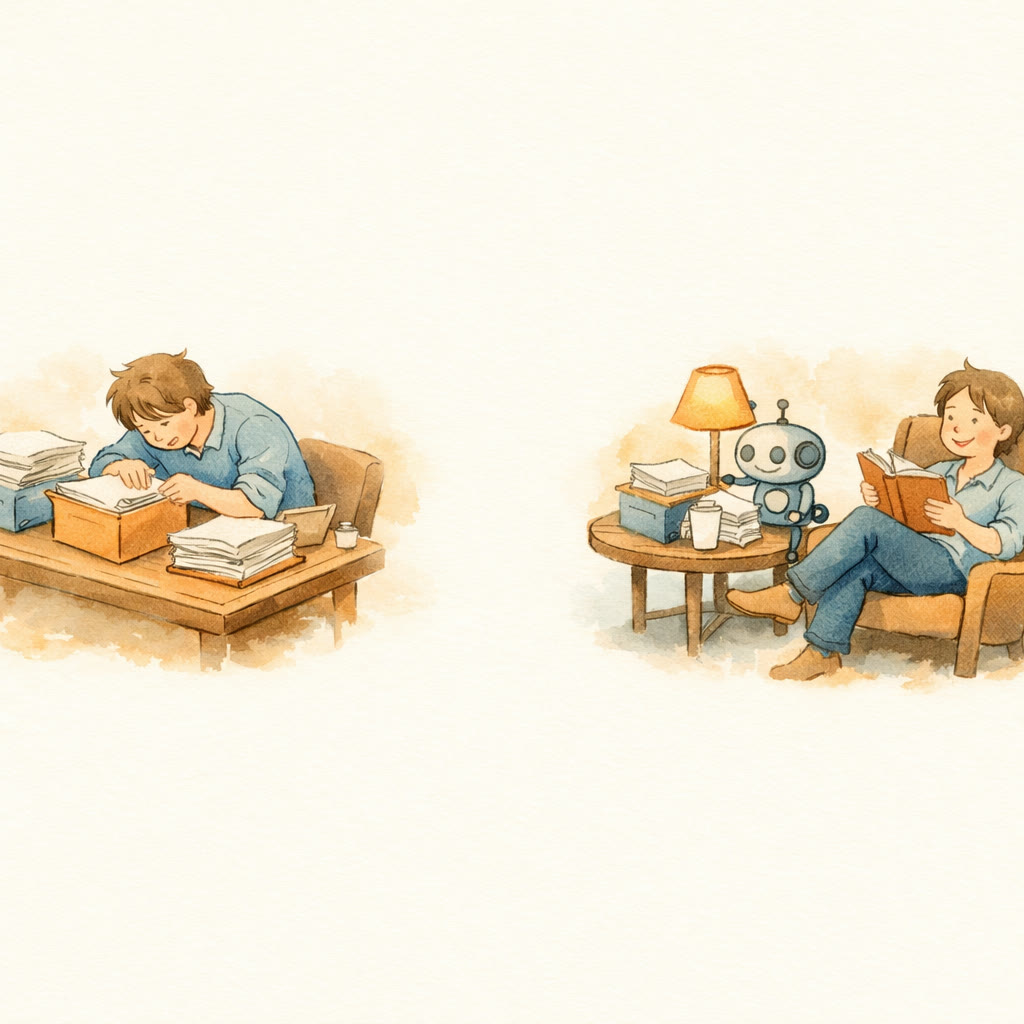
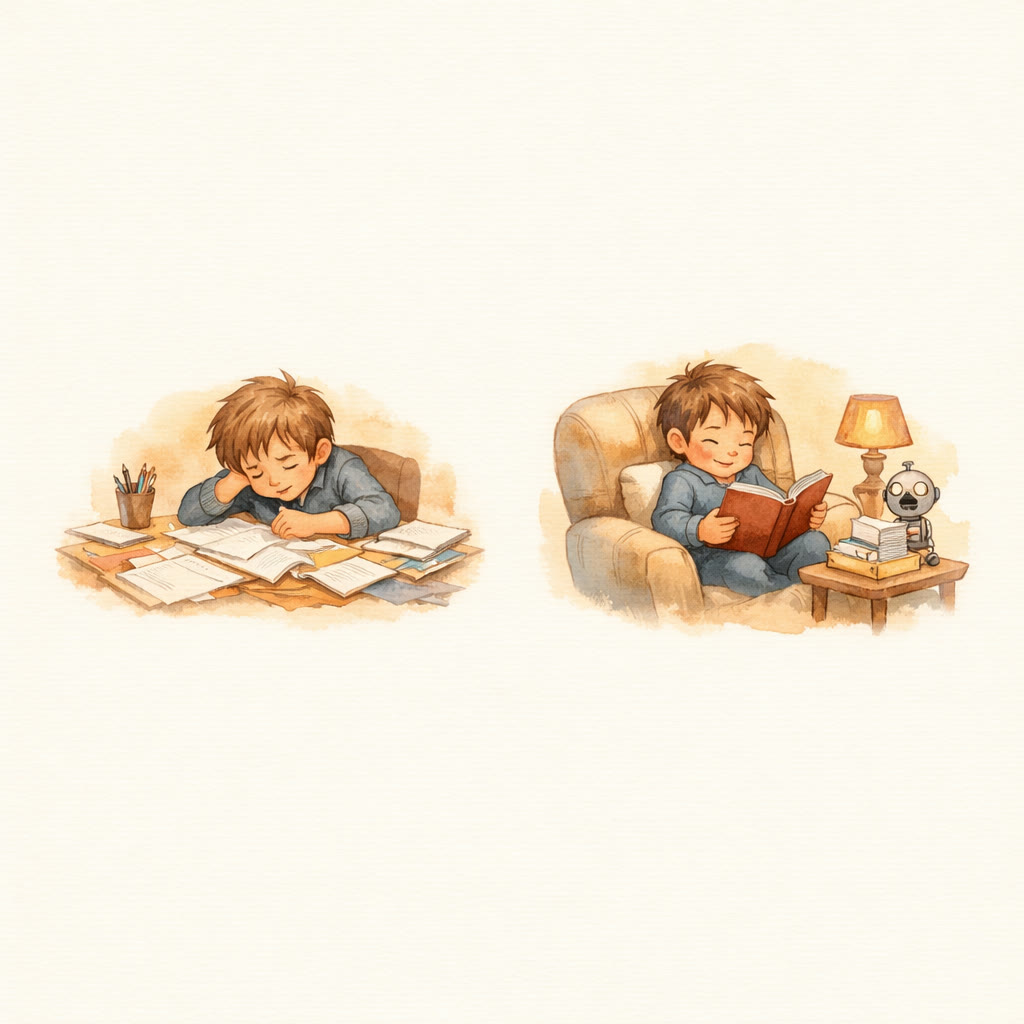
fix: regenerate Easy Read image 4 - better margins

Changed region(s): [[0.5312, 0.3125, 1.0, 0.6875], [0.0, 0.3438, 0.4688, 0.6562]]

diff --git a/public/reports/karpathy-llm-wiki-easy.md b/public/reports/karpathy-llm-wiki-easy.md
@@ -78,7 +78,7 @@ Karpathy 的方案只有三层,每层都很好理解:
 
 ## 跟你现在用的笔记软件有什么不一样?
 
-![](/images/reading/karpathy-llm-wiki-easy-4.jpg?v=2)
+![](/images/reading/karpathy-llm-wiki-easy-4.jpg?v=3)
 
 最大的区别就一句话:**维护者变了。**
 
